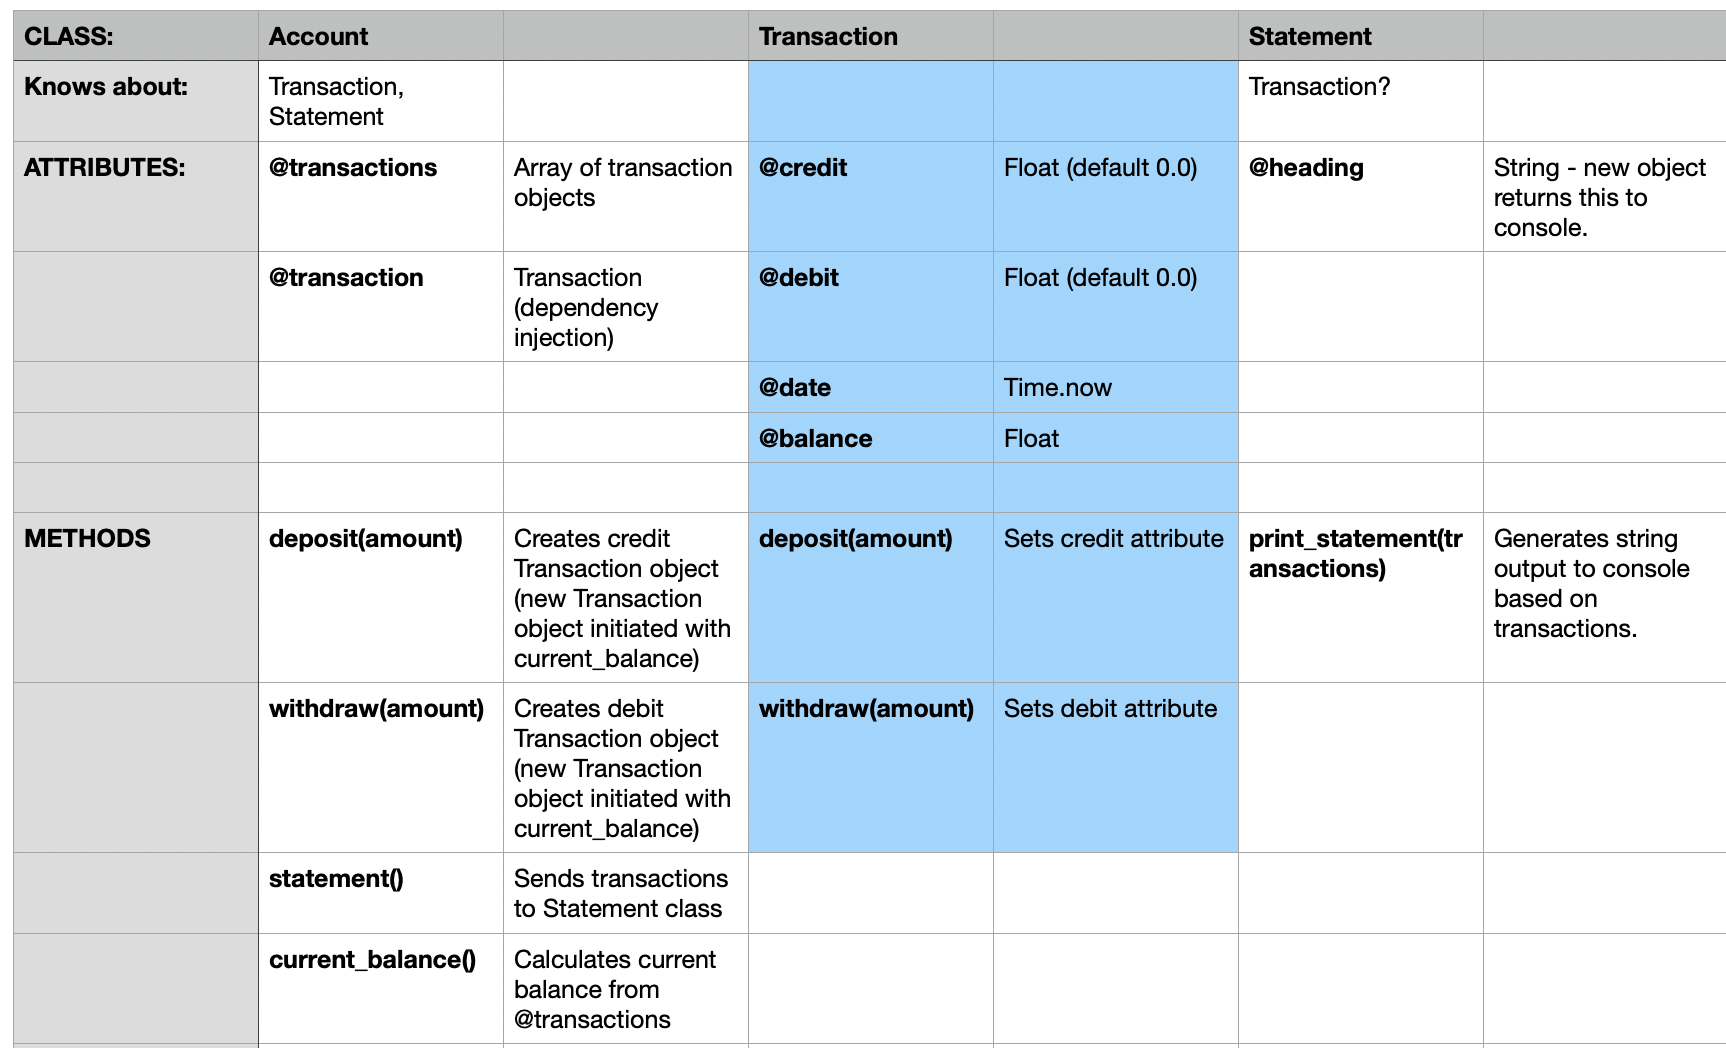
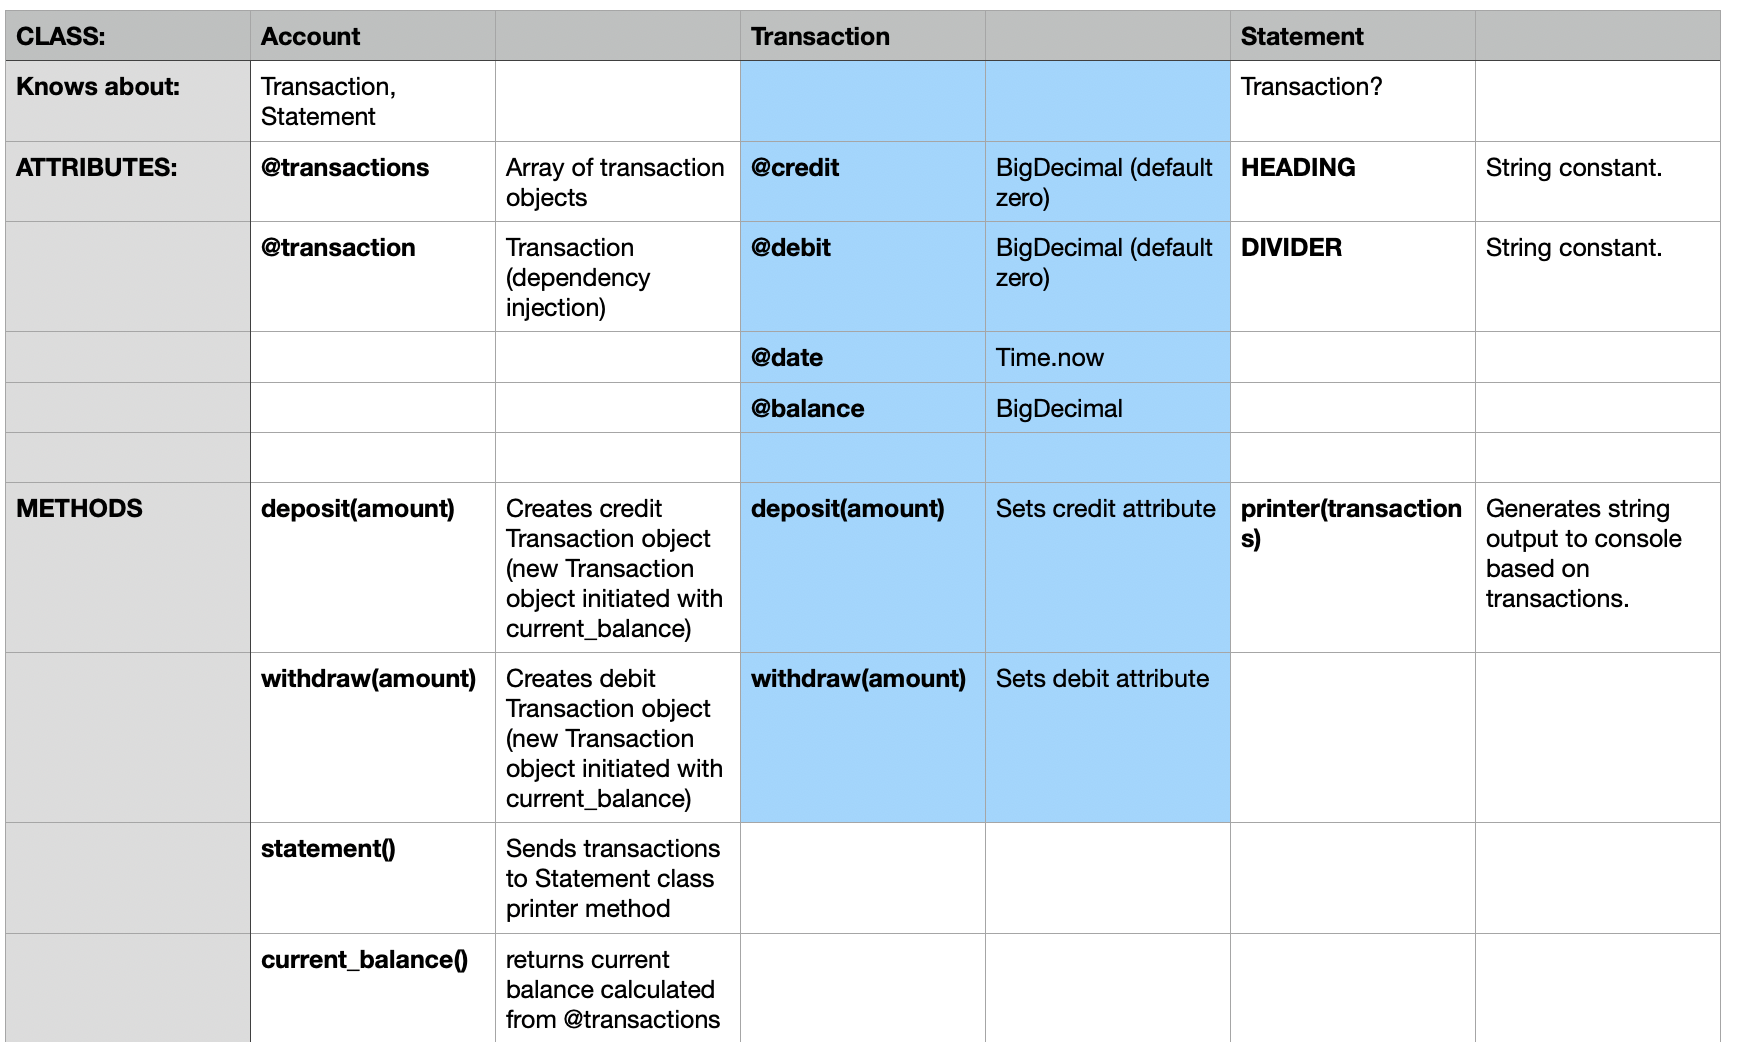
update README.md

diff --git a/README.md b/README.md
@@ -59,7 +59,7 @@ I want to print a statement of my transactions
 
 ![Class diagram](plan.png)
 
-## Progress
+## Progress log
 
 - Day 1
 - set up local and github repo
@@ -77,7 +77,10 @@ I want to print a statement of my transactions
 - fixed bug in Account class (exposed by feature test): was sending current balance to transaction before adding/subtracting the current transaction
 - (temporarily?) added nil returns on deposit, withdraw, and statement methods in Account to prevent transaction array being logged in the terminal
 - have provided messages for withdraw and deposite methods instead of nil return
-- have learned about and gone with BigDecimal to handle floating point calculations owing to Ruby float inaccuracies (try 1.40 + 1.60 in irb!): have decided to put this in Transaction class despite earlier thoughts as it seems more straightforward to 'read' the code if BigDecimal used here. May involve extracting some balance logic from Account though.
+- have learned about and implemented BigDecimal to handle floating point calculations owing to Ruby float inaccuracies (try `1.40 + 1.60` in irb!): I have decided to use BigDecimal in Transaction class despite earlier thoughts as it seems more straightforward to 'read' the code if BigDecimal used here. May involve extracting some balance logic from Account though.
+- have made tests for account more robust - now checks that current balance is sent to a new Transaction instance
+- Transaction now calculates balance based on the current_balance sent from Account plus or minus the deposit/withdraw value: this makes it easier to follow the logic
+- the only calculation now performed in the Account class is the sum of the transactions array: which is populated with BigDecimal values
 
 Thoughts
 
